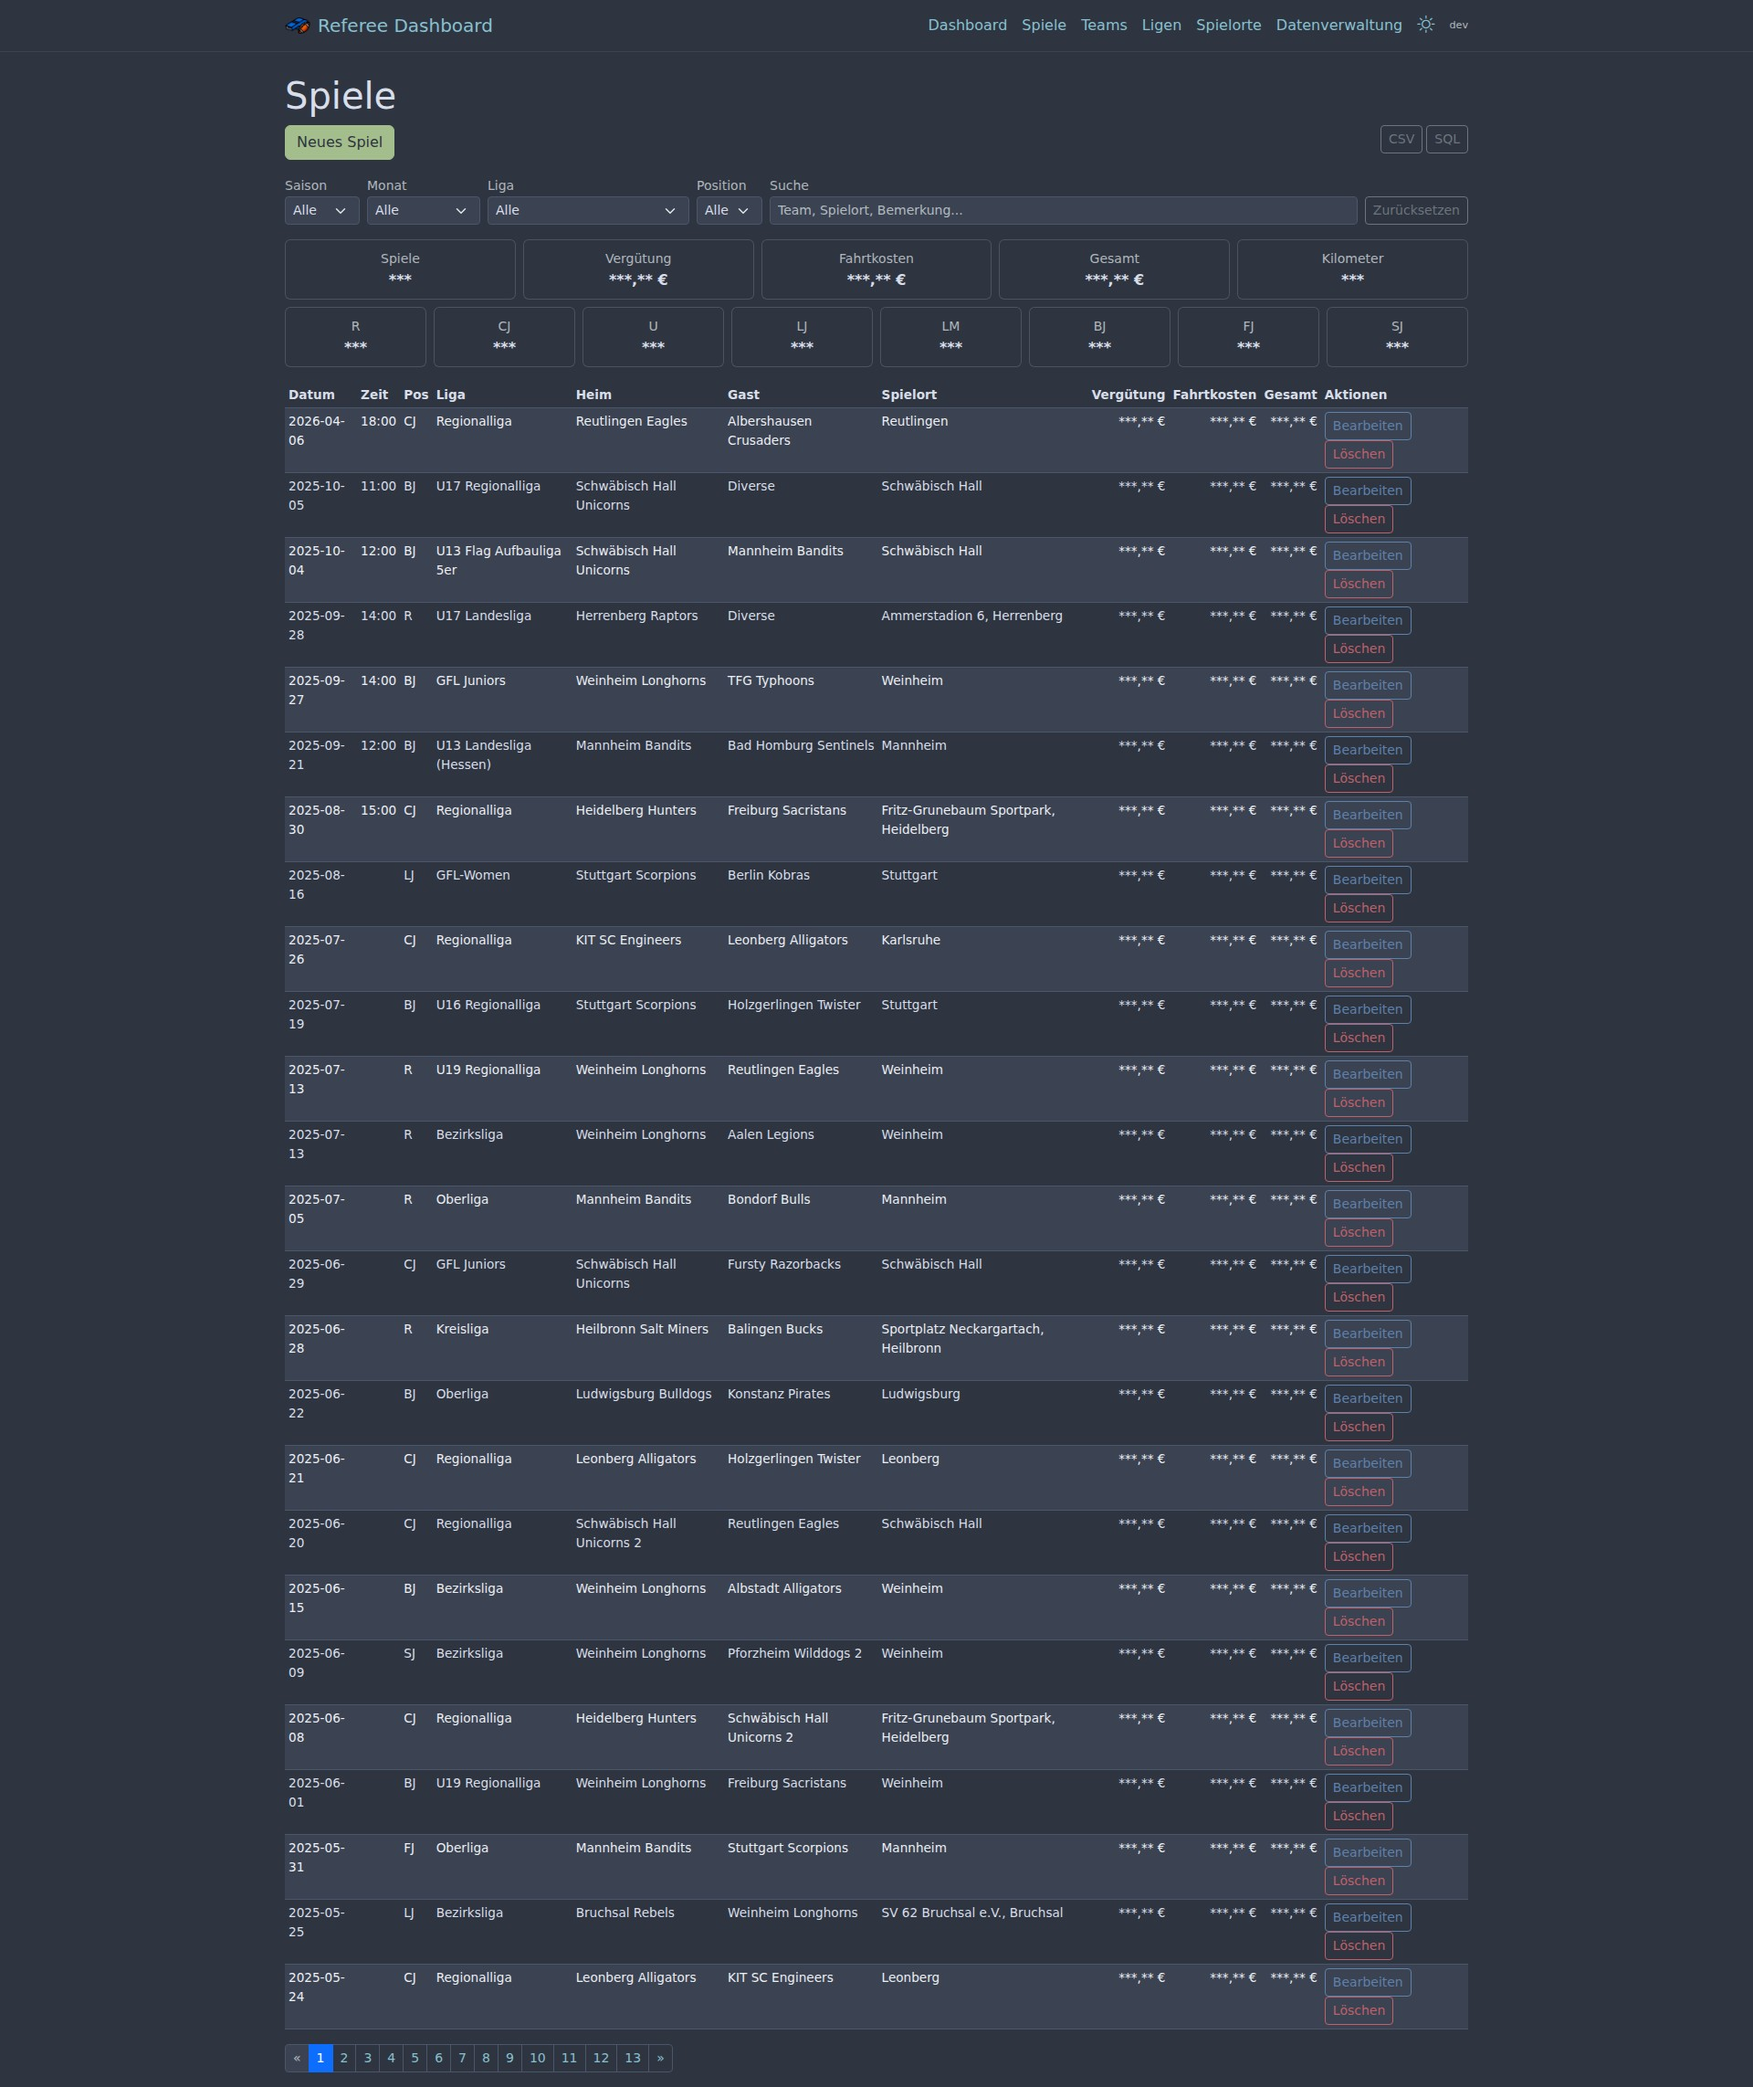
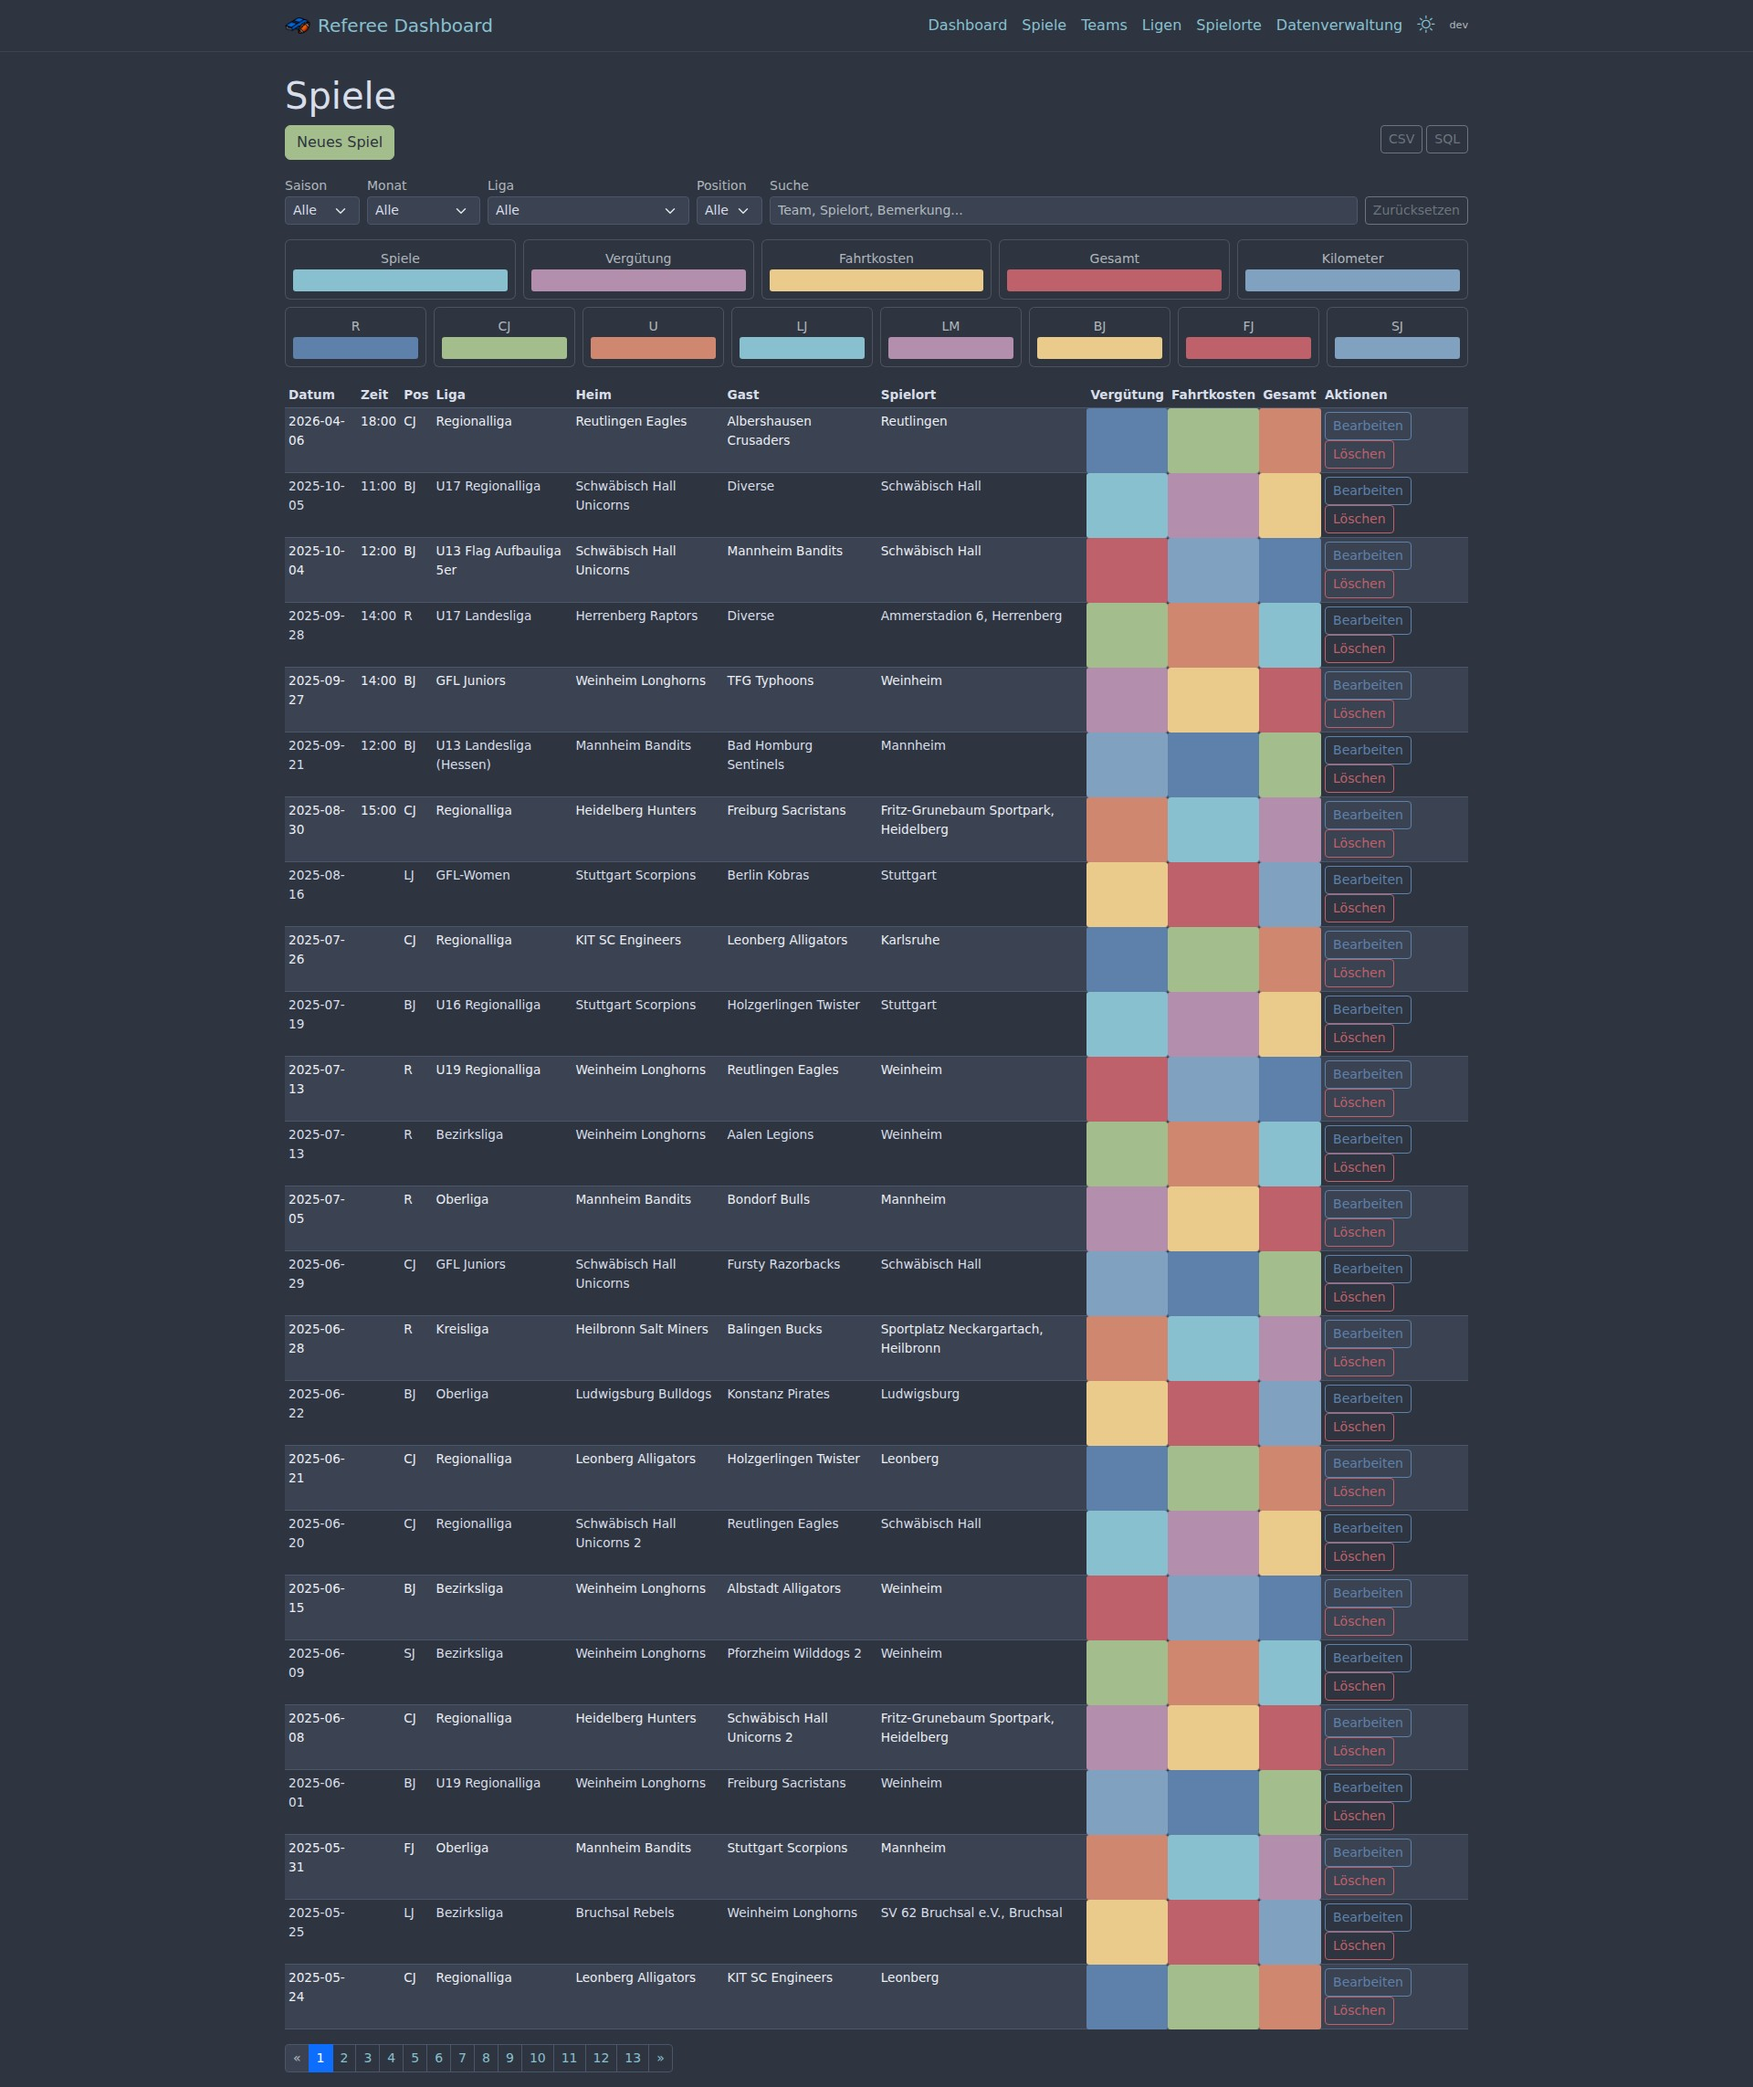
Redact screenshots with colored overlays like Python version
EUR amounts and financial stats covered with Nord-colored blocks,
fee charts blurred. Structure and charts remain visible.

diff --git a/scripts/screenshots.go b/scripts/screenshots.go
@@ -15,29 +15,34 @@ import (
 // JS to redact sensitive financial data before screenshot
 const redactJS = `
 (function() {
-    // Blur all Plotly chart containers
-    document.querySelectorAll('.js-plotly-plot, [id^="chart-"]').forEach(el => {
-        el.style.filter = 'blur(6px)';
+    var colors = ['#5E81AC','#A3BE8C','#D08770','#88C0D0','#B48EAD','#EBCB8B','#BF616A','#81A1C1'];
+    var ci = 0;
+    function nextColor() { return colors[ci++ % colors.length]; }
+
+    function redactEl(el) {
+        var rect = el.getBoundingClientRect();
+        if (rect.width < 5 || rect.height < 5) return;
+        var overlay = document.createElement('div');
+        overlay.style.cssText = 'position:absolute;left:'+rect.left+'px;top:'+rect.top+'px;width:'+rect.width+'px;height:'+rect.height+'px;background:'+nextColor()+';border-radius:3px;z-index:9999;';
+        document.body.appendChild(overlay);
+    }
+
+    // Redact EUR amounts and financial numbers in table cells
+    document.querySelectorAll('td').forEach(el => {
+        if (/[\d.,]+\s*€/.test(el.textContent)) redactEl(el);
     });
 
-    // Replace EUR amounts, numbers in stat cards and table cells
-    document.querySelectorAll('.card-body .fw-bold, .card-body span[x-text], td.text-end').forEach(el => {
-        var text = el.textContent;
-        // Replace EUR amounts like "1.234,56 €" or "0,00 €"
-        text = text.replace(/[\d.,]+\s*€/g, '***,** €');
-        // Replace plain numbers like "2.247" or "34"
-        text = text.replace(/^[\d.,]+$/, '***');
-        // Replace ct/km values
-        text = text.replace(/[\d,]+\s*ct/g, '**,* ct');
-        el.textContent = text;
-    });
-
-    // Redact table rows (games list: fee columns)
-    document.querySelectorAll('table td').forEach(el => {
-        var text = el.textContent;
-        if (/[\d.,]+\s*€/.test(text)) {
-            el.textContent = text.replace(/[\d.,]+\s*€/g, '***,** €');
+    // Redact stat card values (fw-bold with numbers or EUR)
+    document.querySelectorAll('.fw-bold').forEach(el => {
+        var text = el.textContent.trim();
+        if (/[\d.,]+\s*€/.test(text) || /^\d[\d.,]*$/.test(text) || /[\d,]+\s*ct/.test(text)) {
+            redactEl(el);
         }
+    });
+
+    // Redact Vergütung chart containers (fee charts show EUR)
+    document.querySelectorAll('[id^="chart-fee"]').forEach(el => {
+        el.style.filter = 'blur(8px)';
     });
 })();
 `
